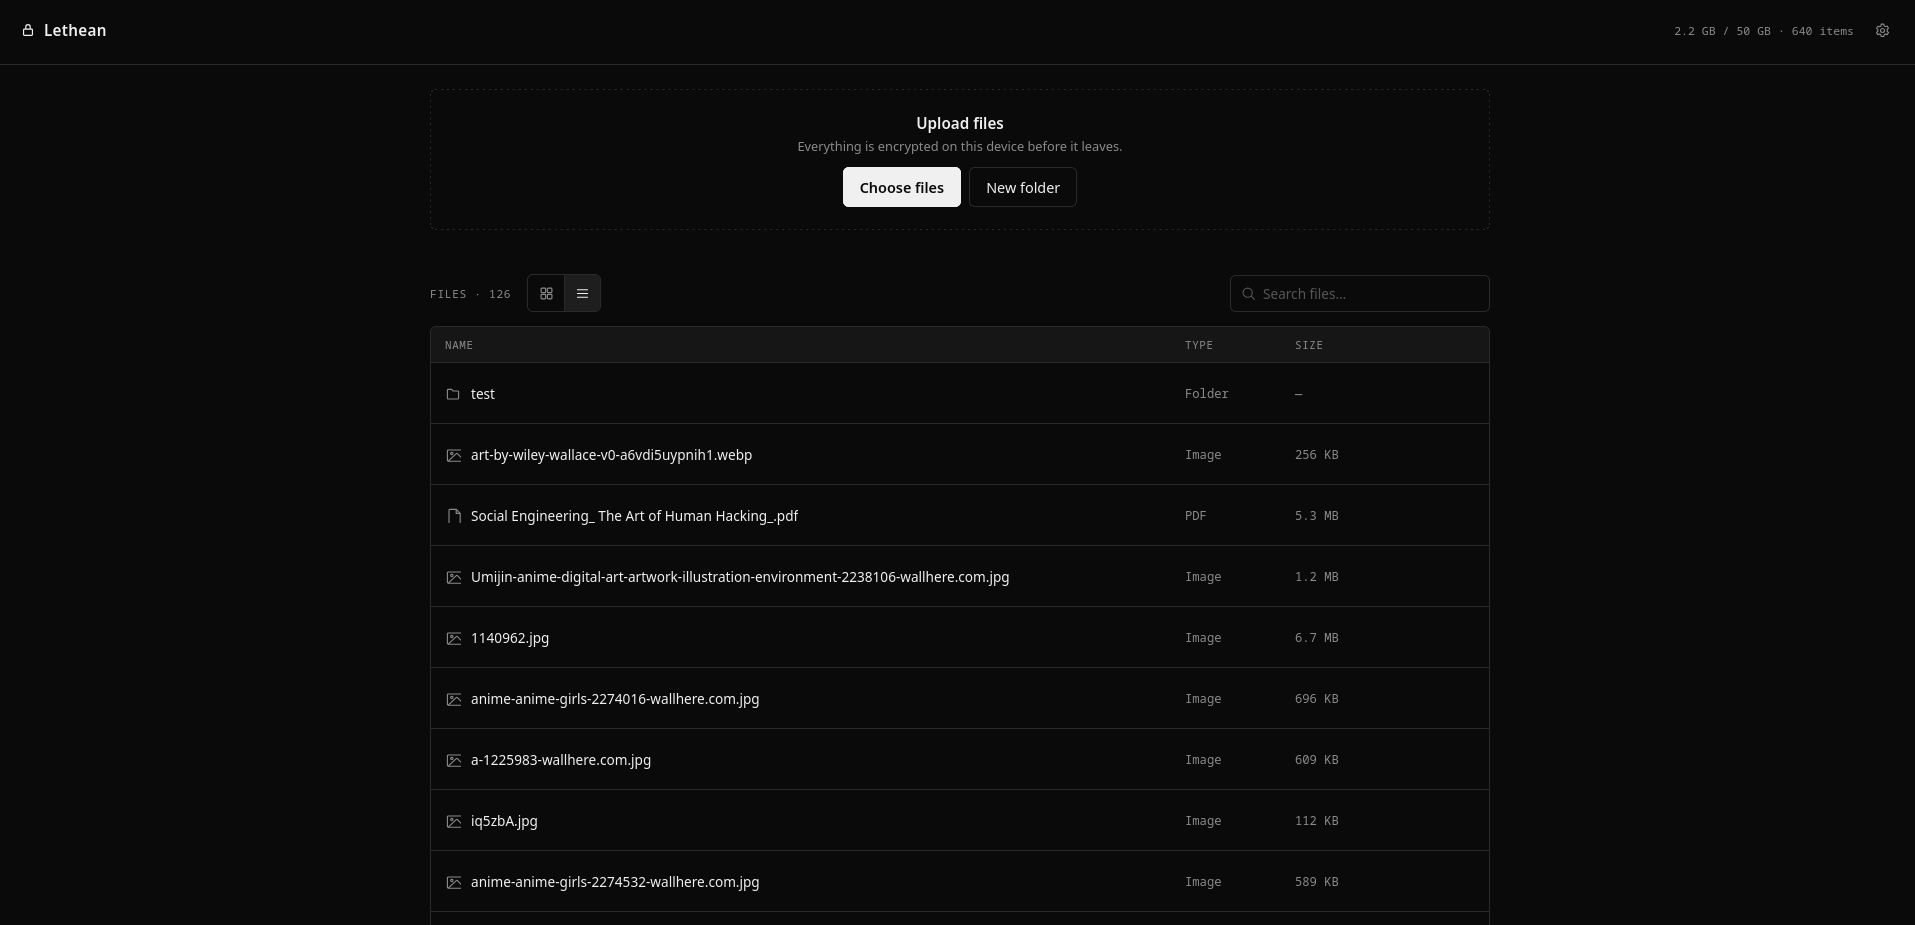
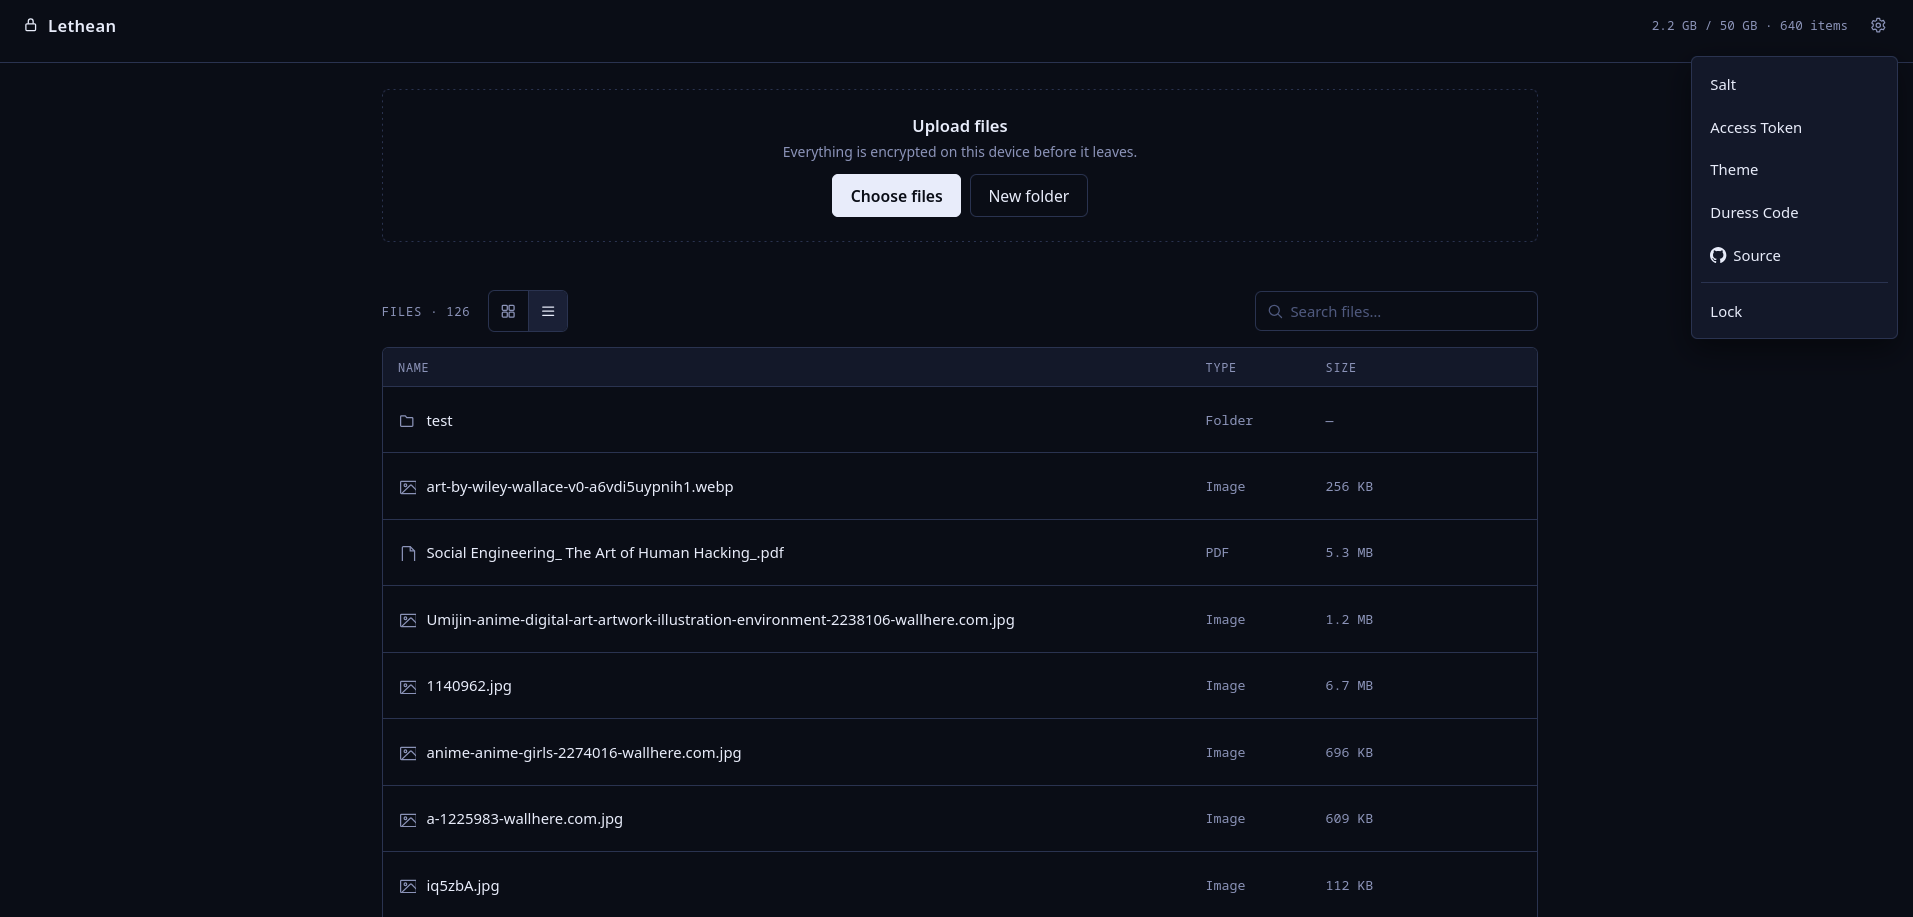
Add themes

diff --git a/client/src/theme.ts b/client/src/theme.ts
@@ -1,0 +1,156 @@
+import { getStoredTheme } from './storage.js';
+
+export interface ThemeVars {
+  bg: string;
+  surface: string;
+  surface2: string;
+  border: string;
+  text: string;
+  dim: string;
+  faint: string;
+}
+
+export interface ThemeDef {
+  id: string;
+  name: string;
+  vars: ThemeVars;
+  accent: string;
+}
+
+export const THEMES: ThemeDef[] = [
+  {
+    id: 'noir',
+    name: 'Noir',
+    vars: {
+      bg: '#0a0a0a', surface: '#161616', surface2: '#1e1e1e',
+      border: '#2a2a2a', text: '#f0f0f0', dim: '#8a8a8a', faint: '#555555',
+    },
+    accent: '#8a8a8a',
+  },
+  {
+    id: 'mocha',
+    name: 'Mocha',
+    vars: {
+      bg: '#1b1310', surface: '#261c17', surface2: '#31241d',
+      border: '#4a352a', text: '#f2e6da', dim: '#b08d74', faint: '#6e5646',
+    },
+    accent: '#8a5a3c',
+  },
+  {
+    id: 'cappuccino',
+    name: 'Cappuccino',
+    vars: {
+      bg: '#2a2019', surface: '#362a21', surface2: '#43352a',
+      border: '#5c4a3a', text: '#f5e8d8', dim: '#c4a37f', faint: '#8a715a',
+    },
+    accent: '#c9a06c',
+  },
+  {
+    id: 'latte',
+    name: 'Latte',
+    vars: {
+      bg: '#f5efe6', surface: '#ffffff', surface2: '#efe6d8',
+      border: '#ddd0bd', text: '#2c2117', dim: '#7a6a56', faint: '#a89880',
+    },
+    accent: '#a9744f',
+  },
+  {
+    id: 'matcha',
+    name: 'Matcha',
+    vars: {
+      bg: '#141b13', surface: '#1c261a', surface2: '#243020',
+      border: '#37452f', text: '#e9f1e2', dim: '#8fa680', faint: '#516347',
+    },
+    accent: '#5a9451',
+  },
+  {
+    id: 'midnight',
+    name: 'Midnight',
+    vars: {
+      bg: '#0a0d16', surface: '#131829', surface2: '#1a2036',
+      border: '#2a3350', text: '#e8ecfa', dim: '#8b93b8', faint: '#4f597e',
+    },
+    accent: '#4f6bd9',
+  },
+  {
+    id: 'espresso',
+    name: 'Espresso',
+    vars: {
+      bg: '#150e0b', surface: '#1f1611', surface2: '#291d16',
+      border: '#3d2c22', text: '#f5ece2', dim: '#a88b72', faint: '#5c4433',
+    },
+    accent: '#6b4226',
+  },
+  {
+    id: 'rose',
+    name: 'Rose',
+    vars: {
+      bg: '#160f13', surface: '#20161c', surface2: '#2b1e25',
+      border: '#402a34', text: '#f5e6ee', dim: '#b98aa0', faint: '#6b4a58',
+    },
+    accent: '#c2568b',
+  },
+  {
+    id: 'slate',
+    name: 'Slate',
+    vars: {
+      bg: '#0d1117', surface: '#161b22', surface2: '#1e242c',
+      border: '#30363d', text: '#e6edf3', dim: '#8b98a5', faint: '#4b5563',
+    },
+    accent: '#5b8dd9',
+  },
+  {
+    id: 'forest',
+    name: 'Forest',
+    vars: {
+      bg: '#0e1512', surface: '#17201b', surface2: '#1f2b23',
+      border: '#2f4034', text: '#e7f0ea', dim: '#8fae9b', faint: '#4d6357',
+    },
+    accent: '#3f8f5f',
+  },
+  {
+    id: 'plum',
+    name: 'Plum',
+    vars: {
+      bg: '#150f1a', surface: '#1f1726', surface2: '#2a1f33',
+      border: '#3f2f4d', text: '#f0e6f5', dim: '#a98cc0', faint: '#5f4a72',
+    },
+    accent: '#9457c9',
+  },
+  {
+    id: 'sand',
+    name: 'Sand',
+    vars: {
+      bg: '#f2ece1', surface: '#fffdf9', surface2: '#e9e0d0',
+      border: '#d8cbb0', text: '#2b241a', dim: '#8a7c62', faint: '#b0a488',
+    },
+    accent: '#c17f3b',
+  },
+];
+
+export const DEFAULT_THEME_ID = 'noir';
+
+const VAR_MAP: Record<keyof ThemeVars, string> = {
+  bg: '--bg',
+  surface: '--surface',
+  surface2: '--surface-2',
+  border: '--border',
+  text: '--text',
+  dim: '--dim',
+  faint: '--faint',
+};
+
+export function getTheme(id: string | null | undefined): ThemeDef {
+  return THEMES.find((t) => t.id === id) || THEMES[0]!;
+}
+
+export function applyTheme(id: string | null | undefined): void {
+  const theme = getTheme(id);
+  const root = document.documentElement.style;
+  for (const key of Object.keys(VAR_MAP) as (keyof ThemeVars)[]) {
+    root.setProperty(VAR_MAP[key], theme.vars[key]);
+  }
+  document.documentElement.dataset.theme = theme.id;
+}
+
+applyTheme(getStoredTheme());

diff --git a/client/src/auth.ts b/client/src/auth.ts
@@ -3,14 +3,17 @@ import * as api from './api.js';
 import {
   authScreen, appScreen, authForm, authSubmit, authStatus, passwordInput,
   confirmField, passwordConfirmInput, accessTokenInput, saltInput,
-  logoutBtn, tokenBtn, saltBtn, duressBtn, sourceBtn, settingsBtn, settingsMenu,
+  logoutBtn, tokenBtn, saltBtn, themeBtn, duressBtn, sourceBtn, settingsBtn, settingsMenu,
 } from './dom.js';
 import { fileKeyCache, metaCache, getWrappingKeyRaw, setWrappingKeyRaw, getCurrentVaultId, setCurrentVaultId } from './state.js';
 import {
   isSetupComplete, markSetupComplete, getStoredAccessToken, setStoredAccessToken,
   getStoredSalt, setStoredSalt,
   loadDuressConfig, saveDuressConfig, resetDuressConfig,
+  getStoredTheme, setStoredTheme,
 } from './storage.js';
+import { THEMES, getTheme, applyTheme } from './theme.js';
+import type { ThemeDef } from './theme.js';
 import { escapeHtml, showToast } from './utils.js';
 import { showLightbox, closeLightbox } from './lightbox.js';
 import { refreshGallery, clearRenderedGrid, resetRecords } from './gallery.js';
@@ -294,6 +297,67 @@ for (const item of settingsMenu.querySelectorAll('button')) {
 tokenBtn.addEventListener('click', openTokenPanel);
 
 saltBtn.addEventListener('click', opensaltPanel);
+
+themeBtn.addEventListener('click', openThemePanel);
+
+function openThemePanel(): void {
+  const current = getStoredTheme();
+
+  showLightbox(`
+    <div class="settings-panel">
+      <h2>Theme</h2>
+      <p class="subtitle">
+        Pick a color theme. Applies instantly and is stored only on this device.
+      </p>
+      <div class="theme-grid" id="theme-grid" role="group" aria-label="Theme">
+        ${THEMES.map((t) => `
+          <button
+            type="button"
+            class="theme-swatch${t.id === current ? ' active' : ''}"
+            data-theme-id="${escapeHtml(t.id)}"
+            aria-pressed="${t.id === current}"
+          >
+            <span class="theme-swatch-preview">
+              <span class="theme-swatch-chip"></span>
+            </span>
+            <span class="theme-swatch-name">${escapeHtml(t.name)}</span>
+          </button>
+        `).join('')}
+      </div>
+    </div>
+  `);
+
+  const grid = document.getElementById('theme-grid')!;
+  grid.querySelectorAll<HTMLButtonElement>('.theme-swatch').forEach((btn) => {
+    const id = btn.dataset.themeId!;
+    const theme = getTheme(id);
+    paintThemeSwatch(btn, theme);
+
+    btn.addEventListener('click', () => {
+      applyTheme(id);
+      setStoredTheme(id);
+      grid.querySelectorAll<HTMLButtonElement>('.theme-swatch').forEach((b) => {
+        b.classList.toggle('active', b === btn);
+        b.setAttribute('aria-pressed', String(b === btn));
+      });
+      showToast(`Theme set to ${theme.name}.`);
+    });
+  });
+}
+
+function paintThemeSwatch(btn: HTMLButtonElement, theme: ThemeDef): void {
+  btn.style.background = theme.vars.surface;
+  btn.style.borderColor = theme.vars.border;
+  btn.style.color = theme.vars.text;
+
+  const preview = btn.querySelector<HTMLElement>('.theme-swatch-preview');
+  if (preview) {
+    preview.style.background = theme.vars.bg;
+    preview.style.borderColor = theme.vars.border;
+  }
+  const chip = btn.querySelector<HTMLElement>('.theme-swatch-chip');
+  if (chip) chip.style.background = theme.accent;
+}
 
 function opensaltPanel(): void {
   const current = currentsalt || getStoredSalt();

diff --git a/client/style.css b/client/style.css
@@ -33,6 +33,7 @@ html, body {
   font-family: var(--font);
   -webkit-font-smoothing: antialiased;
   overflow-x: hidden;
+  transition: background-color 0.15s ease, color 0.15s ease;
 }
 
 @media (prefers-reduced-motion: reduce) {
@@ -754,6 +755,49 @@ main.vault {
   user-select: all;
   margin-bottom: 16px;
 }
+
+.theme-grid {
+  display: grid;
+  grid-template-columns: repeat(3, 1fr);
+  gap: 10px;
+}
+.theme-swatch {
+  display: flex;
+  flex-direction: column;
+  align-items: center;
+  gap: 8px;
+  padding: 10px 6px 12px;
+  min-height: 0;
+  border: 1px solid var(--border);
+  border-radius: var(--radius);
+  transition: box-shadow 0.12s ease, transform 0.12s ease;
+}
+.theme-swatch:hover { box-shadow: 0 0 0 1px currentColor; }
+.theme-swatch.active {
+  box-shadow: 0 0 0 2px currentColor;
+}
+.theme-swatch-preview {
+  position: relative;
+  width: 100%;
+  height: 40px;
+  border-radius: calc(var(--radius) - 2px);
+  border: 1px solid var(--border);
+  display: flex;
+  align-items: flex-end;
+  justify-content: flex-end;
+  padding: 6px;
+}
+.theme-swatch-chip {
+  width: 14px;
+  height: 14px;
+  border-radius: 50%;
+  flex-shrink: 0;
+  box-shadow: 0 0 0 1px rgba(0, 0, 0, 0.25);
+}
+.theme-swatch-name {
+  font-size: 0.76rem;
+}
+.theme-swatch.active .theme-swatch-name { font-weight: 600; }
 
 #toasts {
   position: fixed;

diff --git a/client/src/storage.ts b/client/src/storage.ts
@@ -6,6 +6,8 @@ const LS_DURESS_KEY = 'vault.duress';
 const LS_ACCESS_TOKEN_KEY = 'vault.accessToken';
 const LS_SALT_KEY = 'vault.salt';
 const LS_VIEW_MODE_KEY = 'vault.viewMode';
+const LS_THEME_KEY = 'vault.theme';
+const DEFAULT_THEME_ID = 'noir';
 
 export function isSetupComplete(): boolean {
   return localStorage.getItem(LS_SETUP_KEY) === '1';
@@ -52,4 +54,11 @@ export function getStoredViewMode(): ViewMode {
 }
 export function setStoredViewMode(mode: ViewMode): void {
   localStorage.setItem(LS_VIEW_MODE_KEY, mode);
+}
+
+export function getStoredTheme(): string {
+  return localStorage.getItem(LS_THEME_KEY) || DEFAULT_THEME_ID;
+}
+export function setStoredTheme(id: string): void {
+  localStorage.setItem(LS_THEME_KEY, id);
 }

diff --git a/client/index.html b/client/index.html
@@ -95,6 +95,7 @@
         <div class="settings-menu hidden" id="settings-menu" role="menu">
           <button type="button" role="menuitem" id="salt-btn">Salt</button>
           <button type="button" role="menuitem" id="token-btn">Access Token</button>
+          <button type="button" role="menuitem" id="theme-btn">Theme</button>
           <button type="button" role="menuitem" id="duress-btn">Duress Code</button>
           <button type="button" role="menuitem" id="source-btn">
             <svg width="15" height="15" viewBox="0 0 16 16" fill="currentColor" xmlns="http://www.w3.org/2000/svg">

diff --git a/client/src/dom.ts b/client/src/dom.ts
@@ -35,6 +35,7 @@ export const usagePill = $<HTMLSpanElement>('usage-pill');
 export const logoutBtn = $<HTMLButtonElement>('logout-btn');
 export const tokenBtn = $<HTMLButtonElement>('token-btn');
 export const saltBtn = $<HTMLButtonElement>('salt-btn');
+export const themeBtn = $<HTMLButtonElement>('theme-btn');
 export const duressBtn = $<HTMLButtonElement>('duress-btn');
 export const sourceBtn = $<HTMLButtonElement>('source-btn');
 export const settingsBtn = $<HTMLButtonElement>('settings-btn');

diff --git a/client/src/app.ts b/client/src/app.ts
@@ -1,3 +1,4 @@
+import './theme.js';
 import './gallery.js';
 import './lightbox.js';
 import './auth.js';

diff --git a/README.md b/README.md
@@ -9,6 +9,7 @@ Lethean is a zero-knowledge encrypted storage app with no accounts, no email. Pa
 ## Features
 
 - No user account required
+- Elegant and customizable UI
 - AES-256-GCM for client-side encryption
 - Ciphertext padding to hide file size metadata
 - Argon2id for key derivation with per-vault salt
